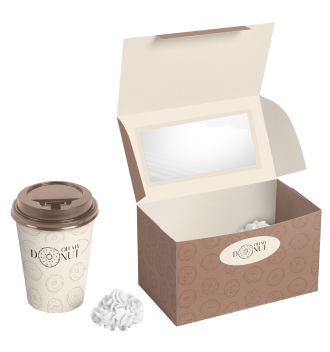
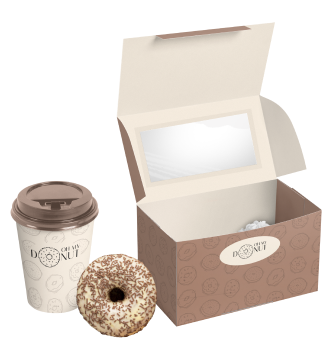
Добавляет bg-imd  с пончиком

Changed region(s): [[0.2121, 0.7188, 0.4848, 0.9688]]

diff --git a/src/partials/about.html b/src/partials/about.html
@@ -23,38 +23,6 @@
         <span class="btn__read-more">Read more</span>
         <span class="btn__read-less">Less</span>
       </button>
-      <!-- <picture class="about_img">
-            <source
-              srcset="
-                ./images/desktop/donut/donut_3.png    1x,
-                ./images/desktop/donut/donut_3@2x.png 2x
-              "
-              media="(min-width: 1280px)"
-              type="image/png"
-            />
-            <source
-              srcset="
-                /images/tablet/donut/donut_3.png    1x,
-                /images/tablet/donut/donut_3@2x.png 2x
-              "
-              media="(min-width: 768px)"
-              type="image/png"
-            />
-            <source
-              srcset="
-                /images/mobile/donut/donut_3.png    1x,
-                /images/mobile/donut/donut_3@2x.png 2x
-              "
-              media="(max-width: 767.98px)"
-              type="image/png"
-            />
-
-            <img
-              class="about__foto"
-              src="/images/desktop/donut/donut_3.png"
-              max-width="128"
-              alt="photo of donut"
-            /> -->
     </div>
   </div>
 </section>

diff --git a/src/sass/layouts/_about.scss b/src/sass/layouts/_about.scss
@@ -1,4 +1,6 @@
 .about__container {
+  position: relative;
+
   @media screen and (max-width: 767.98px) {
     margin-left: auto;
     padding-top: 270px;
@@ -6,6 +8,7 @@
 
   @media screen and (min-width: 768px) {
     padding-top: 80px;
+    justify-content: flex-end;
     margin-left: auto;
     width: calc(100% / 2);
   }
@@ -14,43 +17,10 @@
     margin-left: auto;
     padding-top: 120px;
     padding-bottom: 45px;
-    width: calc(100% / 2 - 40px);
+    width: calc(100% / 2 - 60px);
   }
 }
 
 .about__text:not(:last-child) {
   margin-bottom: 10px;
 }
-
-.about__foto {
-  @media screen and (max-width: 767.98px) {
-    width: 72px;
-    height: 100%;
-  }
-
-  @media screen and (min-width: 768px) {
-    width: 82px;
-    height: 100%;
-  }
-
-  @media screen and (min-width: 1280px) {
-    width: 128px;
-    height: 100%;
-  }
-}
-
-// .about_img {
-//   position: absolute;
-//   @media screen and (max-width: 767.98px) {
-//     top: 190px;
-//     left: 110px;
-//   }
-
-//   @media screen and (min-width: 768px) {
-//     width: 82px;
-//   }
-
-//   @media screen and (min-width: 1280px) {
-//     width: 128px;
-//   }
-// }

diff --git a/src/sass/layouts/_top-part.scss b/src/sass/layouts/_top-part.scss
@@ -1,9 +1,8 @@
 .top-part {
-  background-image: url('/images/mobile/donut/donut_3.png'), url('/images/mobile/other/cupcake.png'),
-    url('/images/mobile/background/bg.png');
-  background-size: 72px 80px, 310px 290px, 100% 461px;
+  background-image: url('/images/mobile/other/cupcake.png'), url('/images/mobile/background/bg.png');
   background-repeat: no-repeat;
-  background-position: top 510px left 120px, top 308px center, top 0 left 0;
+  background-size: 290px 310px, 100% 461px;
+  background-position: top 308px left 50%, top 0 left 0;
 
   @media (min-device-pixel-ratio: 2),
     (-webkit-min-device-pixel-ratio: 2),
